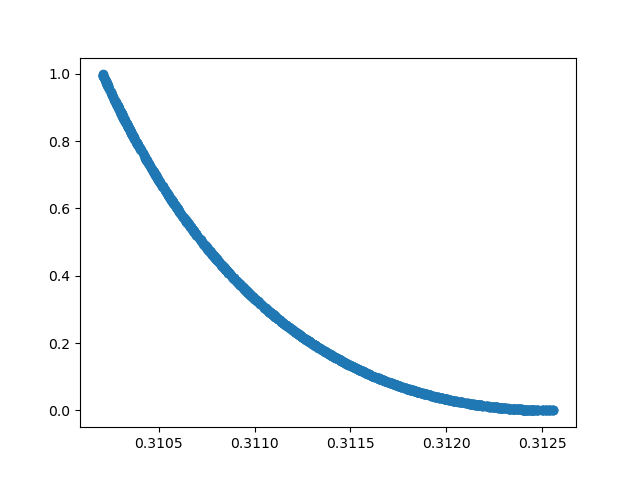
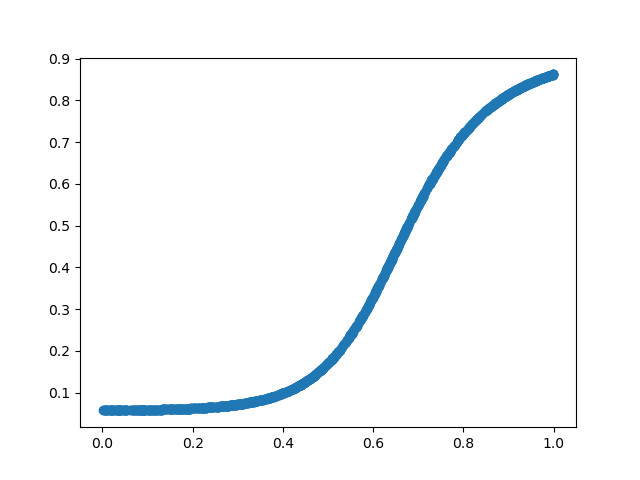
Starting picture reconstruction

diff --git a/project_3/net.py b/project_3/net.py
@@ -99,7 +99,7 @@ class Linear(Module):
         #self.W += -self.learning_rate*gradW
         #self.b += -self.learning_rate*gradient
 
-        self.W,self.b = self.Adam(self.W,self.b,gradW,gradient)
+        self.W,self.b = self.Adam(self.W, self.b, gradW, gradient)
 
         #Can automate by calling prev backwards
 
@@ -145,18 +145,18 @@ class Network(Module):
     def __init__(self, input_dim, output_dim):
         super(Network, self).__init__()
         # todo initializes layers, i.e. sigmoid, linear
-        self.lin1 = Linear(input_dim, 10, is_input=True)
+        self.lin1 = Linear(input_dim, 5, is_input=True)
         
         self.sig1 = Sigmoid()
         self.sig1(self.lin1)
 
-        self.lin2 = Linear(10,10)
+        self.lin2 = Linear(5,5)
         self.lin2(self.sig1)
 
         self.sig2 = Sigmoid()
         self.sig2(self.lin2)
 
-        self.lin3 = Linear(10,output_dim)
+        self.lin3 = Linear(5,output_dim)
         self.lin3(self.sig2)
 
         self.sig3 = Sigmoid()
@@ -235,14 +235,14 @@ def train(model, data, labels, num_iterations, batch_size, learning_rate=None):
 
 class Adam():
     def __init__(self,W):
-        self.learning_rate = 1E-2
-        self.epsilon = 1e-8
+        self.learning_rate = 1E-3
+        self.epsilon = 1E-8
 
         self.m = np.zeros_like(W)
         self.v = np.zeros_like(W)
 
-        self.mb = np.zeros_like(W[0])
-        self.vb = np.zeros_like(W[0])
+        self.mb = np.zeros_like(W[0]).T
+        self.vb = np.zeros_like(W[0]).T
 
     def __call__(self,W,b,dW,db):
         beta1 = .9

diff --git a/project_3/test.py b/project_3/test.py
@@ -11,7 +11,7 @@ X = np.random.rand(1000,1)
 y = X**2
 
 net = Network(1,1)
-net = train(net,X,y,200,10)
+net = train(net,X,y,500,10)
 
-plt.scatter(net.predict(X),y)
+plt.scatter(X,net.predict(X))
 plt.savefig('fig.png')

diff --git a/project_3/reconstruct.py b/project_3/reconstruct.py
@@ -1,2 +1,8 @@
 #Configure network to reconstruct two provided images (flower,Lincoln)
 
+import numpy as np
+import matplotlib
+import matplotlib.pyplot as plt
+
+matplotlib.use('Agg')
+
